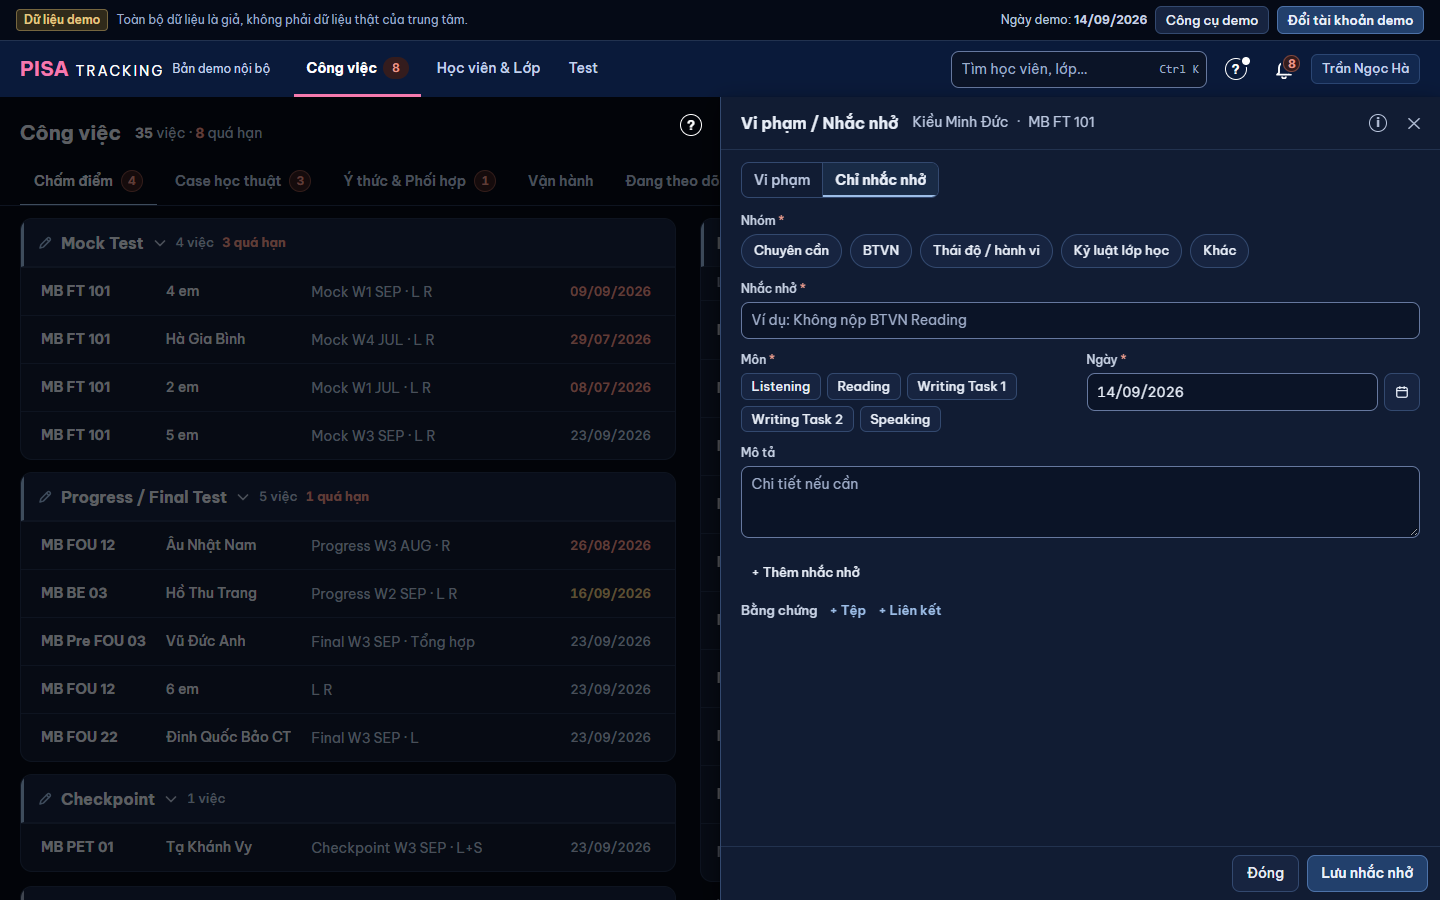
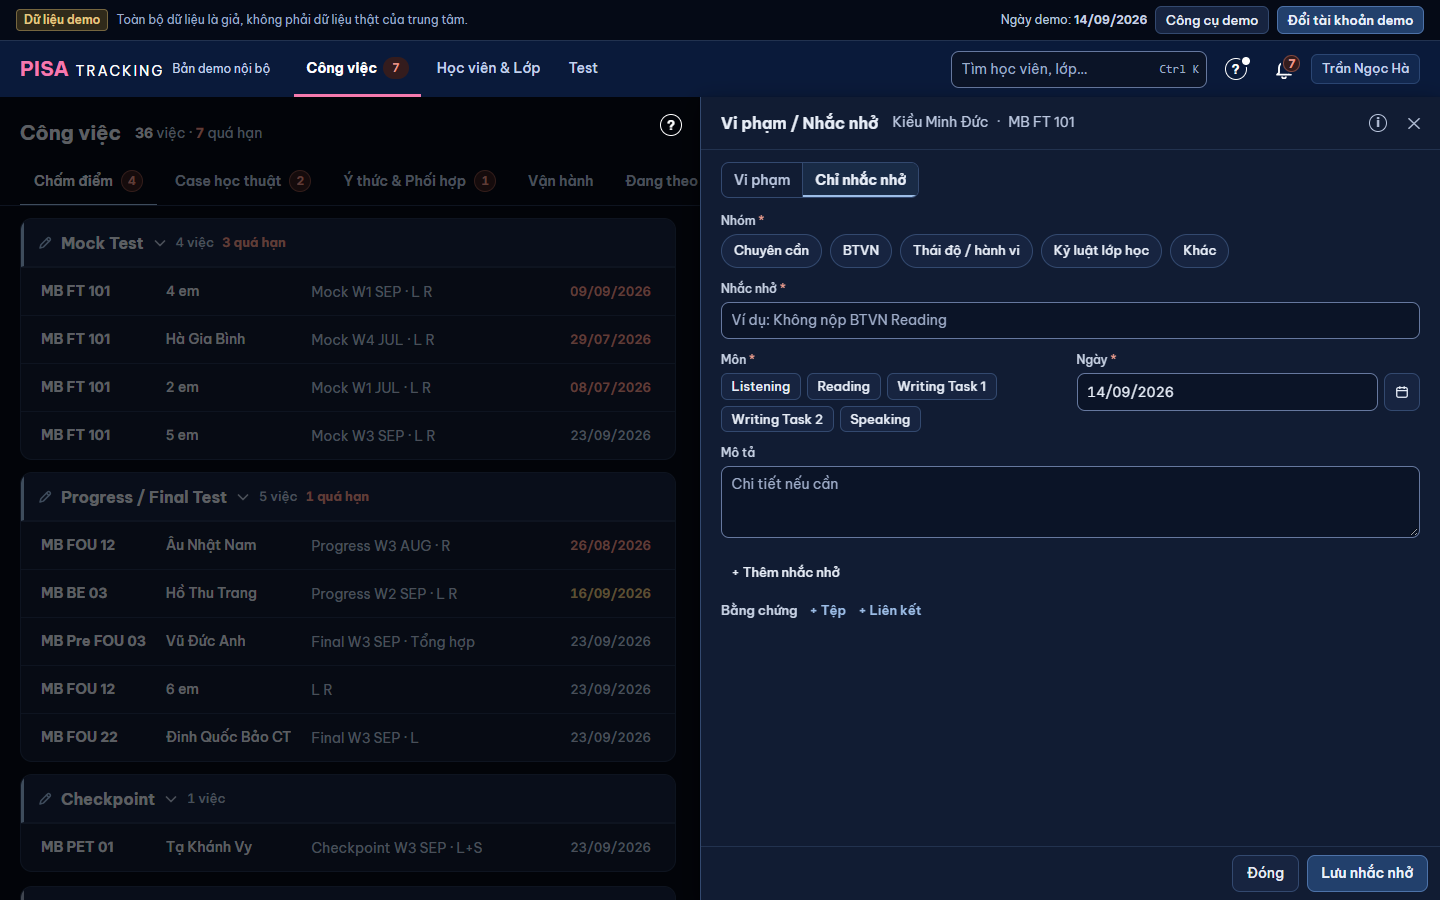
Panel phủ kín ô phải: rộng max(720, min(740, 100vw-564)) — không lộ dải cột Lớp của tôi ở mép trái

Changed region(s): [[0.4688, 0.0933, 0.875, 1.0], [0.75, 0.3733, 0.8125, 0.4667]]

diff --git a/web/src/ui/KhungPanel.tsx b/web/src/ui/KhungPanel.tsx
@@ -482,7 +482,7 @@ export function KhungPanel({ tieuDe: tieuDeGoc, hocVien, lop, phu, rong: rongRie
         /* NHẸ HƠN (v23 P1) + PANEL-GON (v24): ≥ 1024 panel tại chỗ BÁM MÉP PHẢI từ ngay dưới thanh menu tới đáy, 720 px — danh sách trái (nơi gọi)
            vẫn thấy, bấm dòng khác = đổi việc. < 1024 giữ thẻ trong luồng trang (375 toàn màn). */
         style={{ '--pn-top': `${top}px` } as CSSProperties} data-pn={laBang ? 'bang' : 'viec'}
-        className={trongCot ? 'flex min-w-0 flex-col -outline-offset-2' : `card flex flex-col -outline-offset-2 max-sm:-mx-4 max-sm:rounded-none max-sm:border-x-0 sm:max-lg:max-h-[calc(100dvh-8rem)] lg:fixed lg:bottom-0 lg:right-0 lg:top-[var(--pn-top)] lg:z-30 lg:rounded-none lg:border-y-0 lg:border-r-0 lg:shadow-2xl lg:w-[720px] ${chan ? 'max-sm:overflow-visible sm:overflow-hidden' : 'overflow-hidden'}`}>
+        className={trongCot ? 'flex min-w-0 flex-col -outline-offset-2' : `card flex flex-col -outline-offset-2 max-sm:-mx-4 max-sm:rounded-none max-sm:border-x-0 sm:max-lg:max-h-[calc(100dvh-8rem)] lg:fixed lg:bottom-0 lg:right-0 lg:top-[var(--pn-top)] lg:z-30 lg:rounded-none lg:border-y-0 lg:border-r-0 lg:shadow-2xl lg:w-[max(720px,min(740px,calc(100vw-564px)))] ${chan ? 'max-sm:overflow-visible sm:overflow-hidden' : 'overflow-hidden'}`}>
         <KhungTrongThe.Provider value={trongThe}><KhungTrongCot.Provider value={false}><KhungTaiCho.Provider value={false}><ThanTrongCot.Provider value={trongCot && !trongThe}>{voi(than)}</ThanTrongCot.Provider></KhungTaiCho.Provider></KhungTrongCot.Provider></KhungTrongThe.Provider>
       </section>
     );
@@ -505,7 +505,7 @@ export function KhungPanel({ tieuDe: tieuDeGoc, hocVien, lop, phu, rong: rongRie
     /* NHẸ HƠN (v23): khung bắt đầu NGAY DƯỚI thanh menu (menu không bị phủ), tới đáy. */
     <div className={`fixed inset-x-0 !mt-0 ${z} flex justify-end`} style={{ top, bottom: 'var(--ban-phim, 0px)' }} role="dialog" aria-modal="true" aria-label={tieuDe}>
       <div className="absolute inset-0 bg-black/60" onClick={dong} />
-      <div ref={khung} tabIndex={-1} data-pn={rong === 'toan' ? undefined : laBang ? 'bang' : 'viec'} className={`relative flex h-full w-full flex-col rounded-none border-l shadow-2xl -outline-offset-2 ${rong === 'toan' ? 'max-w-[1440px]' : 'sm:w-[720px] sm:max-w-full'}`}
+      <div ref={khung} tabIndex={-1} data-pn={rong === 'toan' ? undefined : laBang ? 'bang' : 'viec'} className={`relative flex h-full w-full flex-col rounded-none border-l shadow-2xl -outline-offset-2 ${rong === 'toan' ? 'max-w-[1440px]' : 'sm:w-[720px] sm:max-w-full'} ${rong === 'toan' ? '' : 'lg:w-[max(720px,min(740px,calc(100vw-564px)))]'}`}
         style={{ background: 'var(--surface)', borderColor: 'var(--line-strong)' }}>
         {/* HD3-1 (15 mục 8.3): "?" nổi trên nền mờ, sát mép trái panel, cùng dáng "?" thanh trên — "?" thanh trên bị panel che. ≥ 640 px (375 panel phủ hết). */}
         {nutHd && rong !== 'toan' && (
